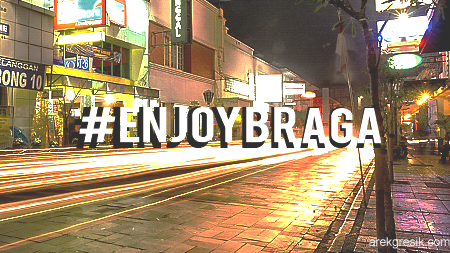
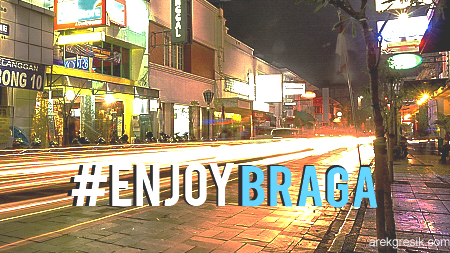
Added light trail effect image with parralax effect and changed the hashtag on the image

Changed region(s): [[0.1244, 0.6364, 0.84, 0.83], [0.1556, 0.415, 0.8711, 0.6087]]

diff --git a/wisata.html b/wisata.html
@@ -55,12 +55,15 @@
             Duis aute irure dolor in reprehenderit in voluptate velit esse cillum dolore eu fugiat nulla pariatur. Excepteur
             sint occaecat cupidatat non proident, sunt in culpa qui officia deserunt mollit anim id est laborum.</p>
     </div>
-    <div style="border: solid">
-        <p>Lorem ipsum dolor sit amet, consectetur adipiscing elit, sed do eiusmod tempor incididunt ut labore et dolore magna
-            aliqua. Ut enim ad minim veniam, quis nostrud exercitation ullamco laboris nisi ut aliquip ex ea commodo consequat.
-            Duis aute irure dolor in reprehenderit in voluptate velit esse cillum dolore eu fugiat nulla pariatur. Excepteur
-            sint occaecat cupidatat non proident, sunt in culpa qui officia deserunt mollit anim id est laborum.</p>
+    <div class="braga" style="border: solid;margin-top: 710px;height: 300px">
+        
     </div>
+    <p>
+        Lorem ipsum Lorem ipsum dolor sit amet, consectetur adipiscing elit, sed do eiusmod tempor incididunt ut labore et dolore magna
+        aliqua. Ut enim ad minim veniam, quis nostrud exercitation ullamco laboris nisi ut aliquip ex ea commodo consequat.
+        Duis aute irure dolor in reprehenderit in voluptate velit esse cillum dolore eu fugiat nulla pariatur. Excepteur
+        sint occaecat cupidatat non
+    </p>
 </body>
 
 </html>

diff --git a/wisata.css b/wisata.css
@@ -20,7 +20,13 @@ background-color: rgba(245, 245, 220, 0.76);
 #imgTravel{
     size:100%;
 }
-
+.braga{
+    background-image: url("bragaLightTrail2.jpg");
+    background-size:cover;
+    background-position: center;
+    background-attachment: fixed;
+    background-repeat: no-repeat;
+}
 h1{
     font-family: 'Times New Roman', Times, serif;
     color: black;

diff --git a/javascripttest.js b/javascripttest.js
@@ -1,0 +1,22 @@
+console.log("loaded");
+var x;
+x = 10;
+
+Number
+var numrand = 0;
+function randGen(){
+    numrand = Math.random();
+}
+
+String
+Boolean
+Array
+var arrNum=[];
+///
+for (i = 0; i < 100; i++) {
+    
+    arrNum[i] = numrand;
+    randGen();
+    
+}
+console.log(arrNum);
